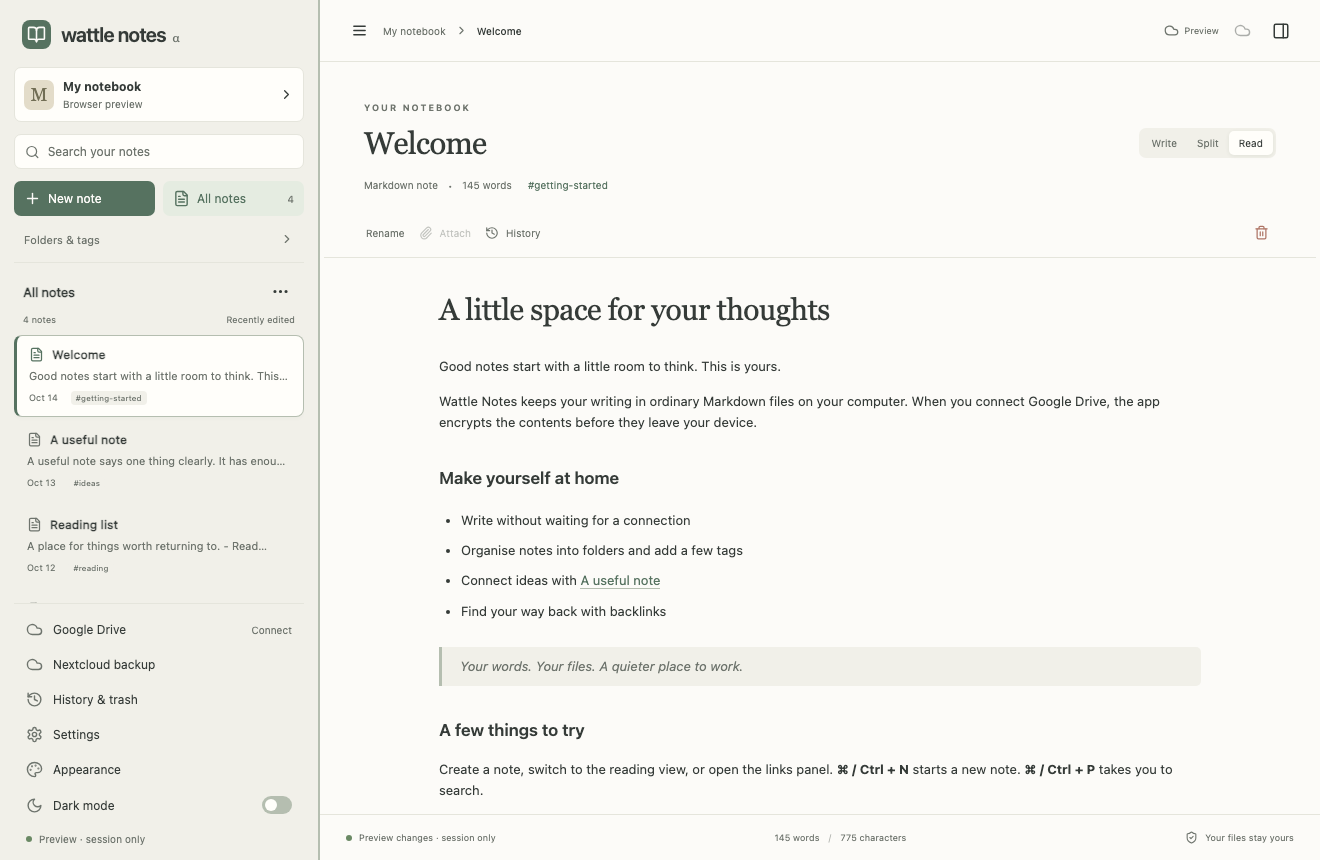
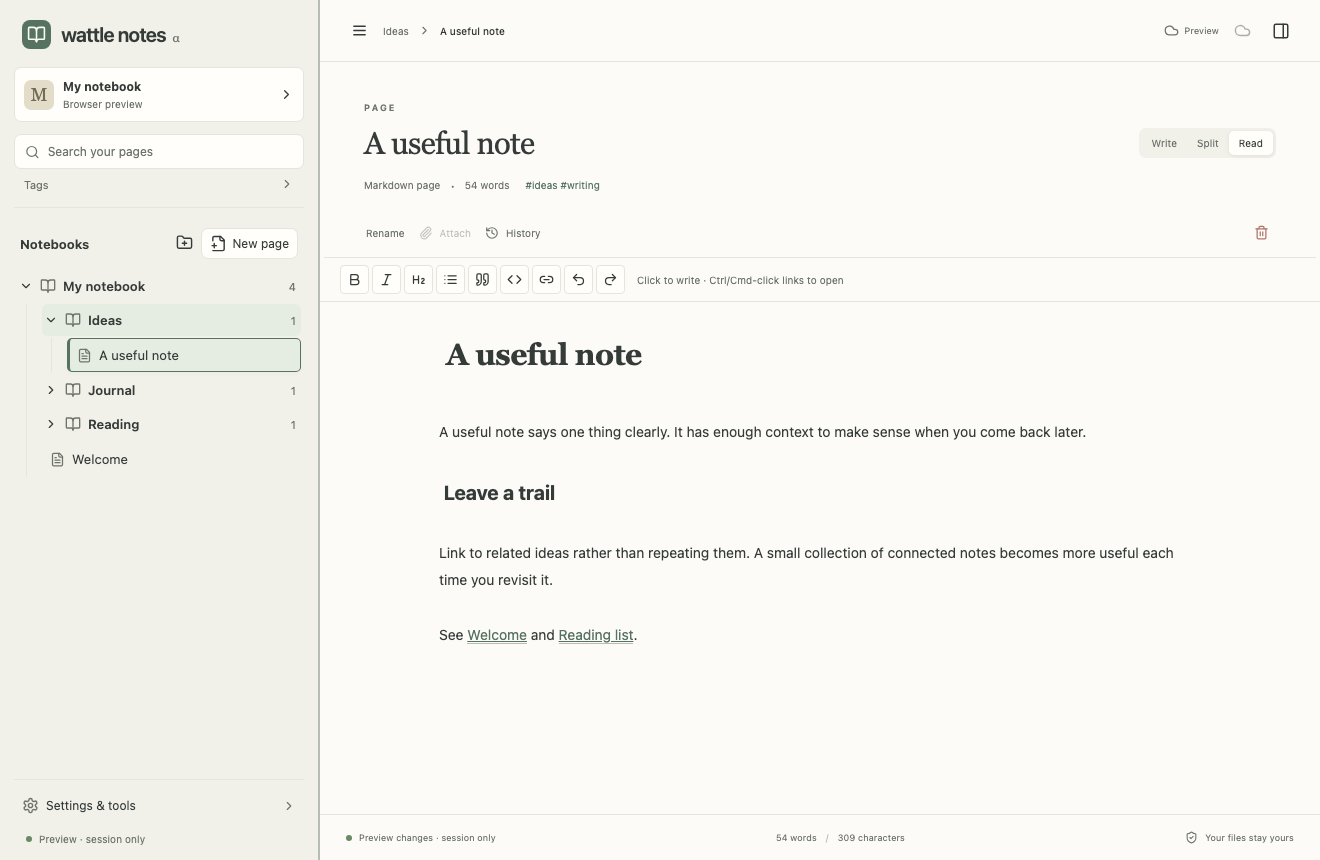
Prepare 0.1.3 alpha with notebook and page navigation

diff --git a/website/getting-started/index.html b/website/getting-started/index.html
@@ -52,10 +52,12 @@
         preserve local history.
       </p>
       <p>
-        Create a note with <strong>Cmd+N</strong>, find one with <strong>Cmd+P</strong>, or save
+        Create a page with <strong>Cmd+N</strong>, find one with <strong>Cmd+P</strong>, or save
         with <strong>Cmd+S</strong>. Local autosave waits briefly after typing. Use Write, Split or
         Read for the view you prefer. Read supports direct Markdown editing with a formatting
-        toolbar; complex blocks remain Markdown. Appearance in the sidebar offers five themes.
+        toolbar; complex blocks remain Markdown. Expand notebooks in the sidebar to see their pages.
+        Select a notebook before choosing New page; New notebook creates a Markdown folder. Settings
+        &amp; tools contains history, trash, cloud connections and Appearance, with five themes.
       </p>
       <h2>3. Connect ideas</h2>
       <p>
@@ -87,11 +89,12 @@
       </div>
       <h2>Keep the app up to date</h2>
       <p>
-        Version 0.1.2 adds in-app alpha updates. Install this version manually once if you have an
-        older build. Move Wattle Notes.app to a writable Applications folder. In Settings → App
-        updates, check for a new build or turn startup checks off. Choose Install update and restart
-        when ready; the app verifies the download and saves your note before installation. Update
-        signatures are separate from Apple signing and notarization, which remain unfinished.
+        Version 0.1.2 and later support in-app alpha updates. Install the current version manually
+        once if you have a build older than 0.1.2. Move Wattle Notes.app to a writable Applications
+        folder. In Settings &amp; tools → Settings → App updates, check for a new build or turn
+        startup checks off. Choose Install update and restart when ready; the app verifies the
+        download and saves your note before installation. Update signatures are separate from Apple
+        signing and notarization, which remain unfinished.
       </p>
       <h2>Build from source</h2>
       <p>

diff --git a/website/index.html b/website/index.html
@@ -77,7 +77,7 @@
             src="./assets/app-dark.png"
             width="1320"
             height="860"
-            alt="Wattle Notes in the Charcoal theme, showing a Markdown notebook with folders, search and a reading view"
+            alt="Wattle Notes in the Charcoal theme, showing expandable notebooks, pages, search and a reading view"
             fetchpriority="high"
           />
         </div>
@@ -170,11 +170,11 @@
         </div>
         <div class="download-card">
           <p class="release-badge">macOS · Apple Silicon · developer alpha</p>
-          <h3>Wattle Notes <span data-version>0.1.2</span></h3>
+          <h3>Wattle Notes <span data-version>0.1.3</span></h3>
           <p>
-            Local Markdown notes, image attachments, editable Read view, in-app alpha updates,
-            history and five themes. This build is unsigned and not notarized. Google sign-in is not
-            preconfigured.
+            Expandable notebooks and pages, collapsible Settings &amp; tools, editable Read view,
+            image attachments, in-app alpha updates and five themes. This build is unsigned and not
+            notarized. Google sign-in is not preconfigured.
           </p>
           <a
             class="button primary releases-link"

diff --git a/tests/capture/website.spec.ts b/tests/capture/website.spec.ts
@@ -6,6 +6,8 @@ test('capture the real browser preview for the launch website', async ({ page })
   await mkdir('website/assets', { recursive: true });
   await page.setViewportSize({ width: 1320, height: 860 });
   await page.goto('/');
+  await page.getByRole('button', { name: /^Ideas / }).click();
+  await page.getByRole('button', { name: 'A useful note', exact: true }).click();
   await page.getByRole('button', { name: 'Read', exact: true }).click();
   for (const theme of themes) {
     await page.getByRole('button', { name: 'Settings & tools', exact: true }).click();

diff --git a/website/site.js b/website/site.js
@@ -6,7 +6,7 @@ for (const button of document.querySelectorAll('[data-preview]')) {
     for (const other of document.querySelectorAll('[data-preview]'))
       other.setAttribute('aria-pressed', String(other === button));
     preview.src = `./assets/app-${id}.png`;
-    preview.alt = `Wattle Notes in the ${button.textContent} theme, showing a Markdown notebook with folders, search and a reading view`;
+    preview.alt = `Wattle Notes in the ${button.textContent} theme, showing expandable notebooks, pages, search and a reading view`;
   });
 }
 

diff --git a/docs/updates.md b/docs/updates.md
@@ -1,6 +1,6 @@
 # In-app alpha updates
 
-Updater-enabled desktop builds check the public GitHub alpha feed three seconds after launch. Settings → App updates provides a manual check and a saved option to disable startup checks. A newer build is offered for the current platform. Downloads and installation require the user's click; the app shows progress, verifies the signature, saves the open note, installs, and restarts. A failed download, signature or save stops installation. Editing and normal Quit are blocked during installation/download so pending work cannot race the restart. This does not change notebook locations or erase settings/history.
+Updater-enabled desktop builds check the public GitHub alpha feed three seconds after launch. Settings & tools → Settings → App updates provides a manual check and a saved option to disable startup checks. A newer build is offered for the current platform. Downloads and installation require the user's click; the app shows progress, verifies the signature, saves the open note, installs, and restarts. A failed download, signature or save stops installation. Editing and normal Quit are blocked during installation/download so pending work cannot race the restart. This does not change notebook locations or erase settings/history.
 
 The previously published 0.1.1 alpha has no updater. Users must manually install the first updater-enabled release once. Version 0.1.2 introduces the updater; source changes alone do not publish a release or advance its feed.
 
@@ -24,7 +24,7 @@ The maintainer's updater signing key is stored at `~/.tauri/wattle-notes-updater
 
 1. Increment the app version consistently in npm, Tauri, Cargo and local website metadata. Each published alpha uses a new numeric app version so comparison works (for example, app 0.1.3 with tag `v0.1.3-alpha.1`). Changing only `alpha.N` while retaining the same app version will not offer an update.
 2. Run the project checks and regenerate notices. Configure the maintainer Google OAuth client for a supported release; an unconfigured build must remain labelled a developer alpha.
-3. With the Rust toolchain on PATH, run `npm run updates:build -- v0.1.2-alpha.1` for the current candidate, or the matching new tag later. This builds the Mac app, creates its updater archive/signature, verifies the signature and signed version against the embedded public key, rejects tampered bytes, checks archive paths, and stages public artifacts in `release/updater/TAG/`. It does not upload or change the public feed.
+3. With the Rust toolchain on PATH, run `npm run updates:build -- v0.1.3-alpha.1` for the current candidate, or the matching new tag later. This builds the Mac app, creates its updater archive/signature, verifies the signature and signed version against the embedded public key, rejects tampered bytes, checks archive paths, and stages public artifacts in `release/updater/TAG/`. It does not upload or change the public feed.
 4. Prepare the regular app/source ZIPs and checksums using `npm run launch:prepare` and `npm run launch:verify -- --against-workspace`. Preserve exact matching source. Keep historical releases intact.
 5. Create the new GitHub alpha release at the matching source commit, including regular app/source assets plus `wattle-notes-macos-arm64.app.tar.gz` and its `.sig` from the updater staging directory. Verify the public updater download bytes/signature before offering it.
 6. **Only after the assets are public**, copy staged `alpha.json` to `updates/alpha.json`, commit and push that feed to main. Uploading an alpha release alone does not update the feed. Do not announce URLs for draft/missing assets. For the first bootstrap publication the feed may be copied in a follow-up commit after the tagged source is published; this preserves publish-before-offer ordering.
